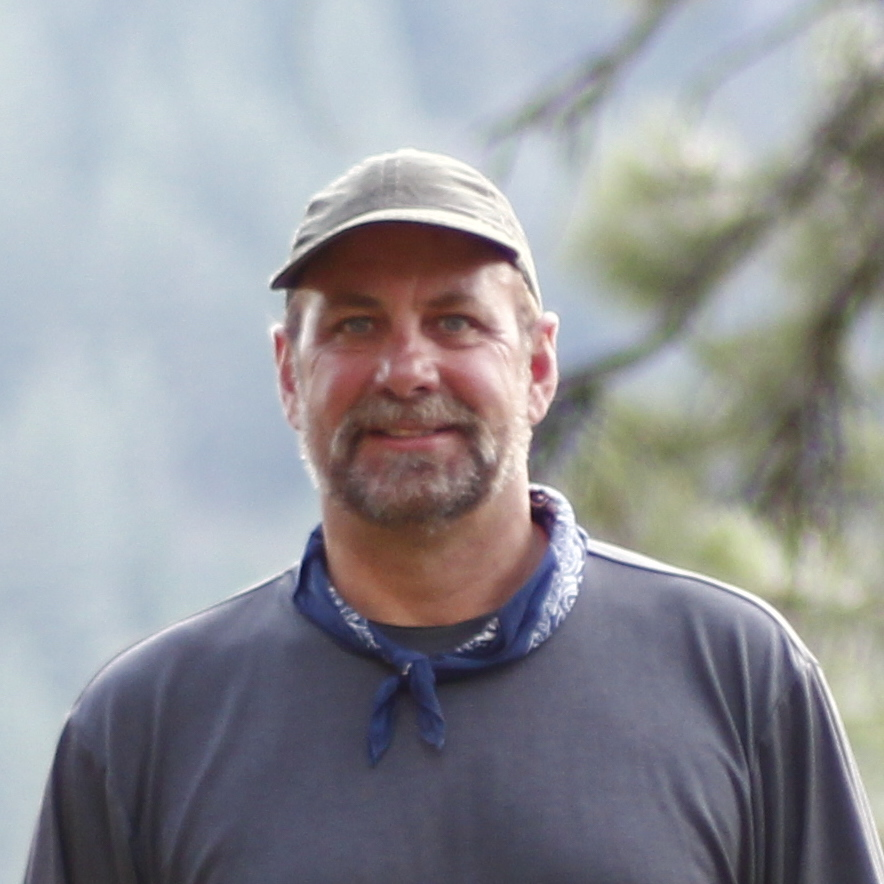
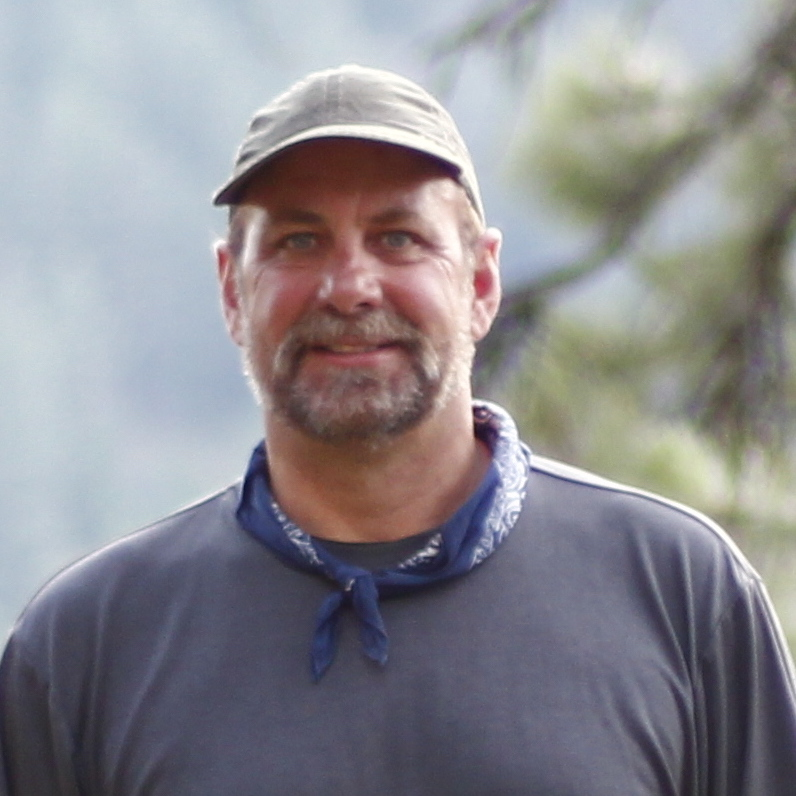
⚗ Cropped images & updated links

diff --git a/index.html b/index.html
@@ -118,8 +118,8 @@ bottom:20px; right: 691px; top: 153px; height: 23px" />
                             <div class="caption-content">
                                 <img src="img/american-ride.png" style="width:75%; max-width: 750px; margin-bottom: 25px;" />
                                 <br />
-                                <a href="#" class="btn btn-blue btn-effect" style="margin: 5px;">Subscribe</a>
-                                <a href="#" class="btn btn-blue btn-effect" style="margin: 5px;">Donate</a>
+                                <a href="https://www.facebook.com/Ride-The-Vote-609278205905167/" target="_blank" class="btn btn-blue btn-effect" style="margin: 5px;">Subscribe</a>
+                                <a href="https://www.paypal.com" class="btn btn-blue btn-effect" target="_blank" style="margin: 5px;">Donate</a>
                             </div>
                         </div>
 
@@ -265,9 +265,9 @@ bottom:20px; right: 691px; top: 153px; height: 23px" />
                         </div>
 
                         <ul class="social-button">
-                            <li class="wow animated zoomIn"><a href="#"><i class="fa fa-thumbs-up fa-2x"></i></a></li>
-                            <li class="wow animated zoomIn" data-wow-delay="0.3s"><a href="#"><i class="fa fa-twitter fa-2x"></i></a></li>
-                            <li class="wow animated zoomIn" data-wow-delay="0.6s"><a href="#"><i class="fa fa-youtube fa-3x"></i></a></li>
+                            <li class="wow animated zoomIn"><a target="_blank" href="https://www.facebook.com/Ride-The-Vote-609278205905167/"><i class="fa fa-thumbs-up fa-2x"></i></a></li>
+                            <li class="wow animated zoomIn" data-wow-delay="0.3s"><a href="https://www.twitter.com/ridethevote" target="_blank"><i class="fa fa-twitter fa-2x"></i></a></li>
+                            <li class="wow animated zoomIn" data-wow-delay="0.6s"><a href="https://www.youtube.com/ridethevote" target="_blank"><i class="fa fa-youtube fa-3x"></i></a></li>
                         </ul>
 
                     </div>
